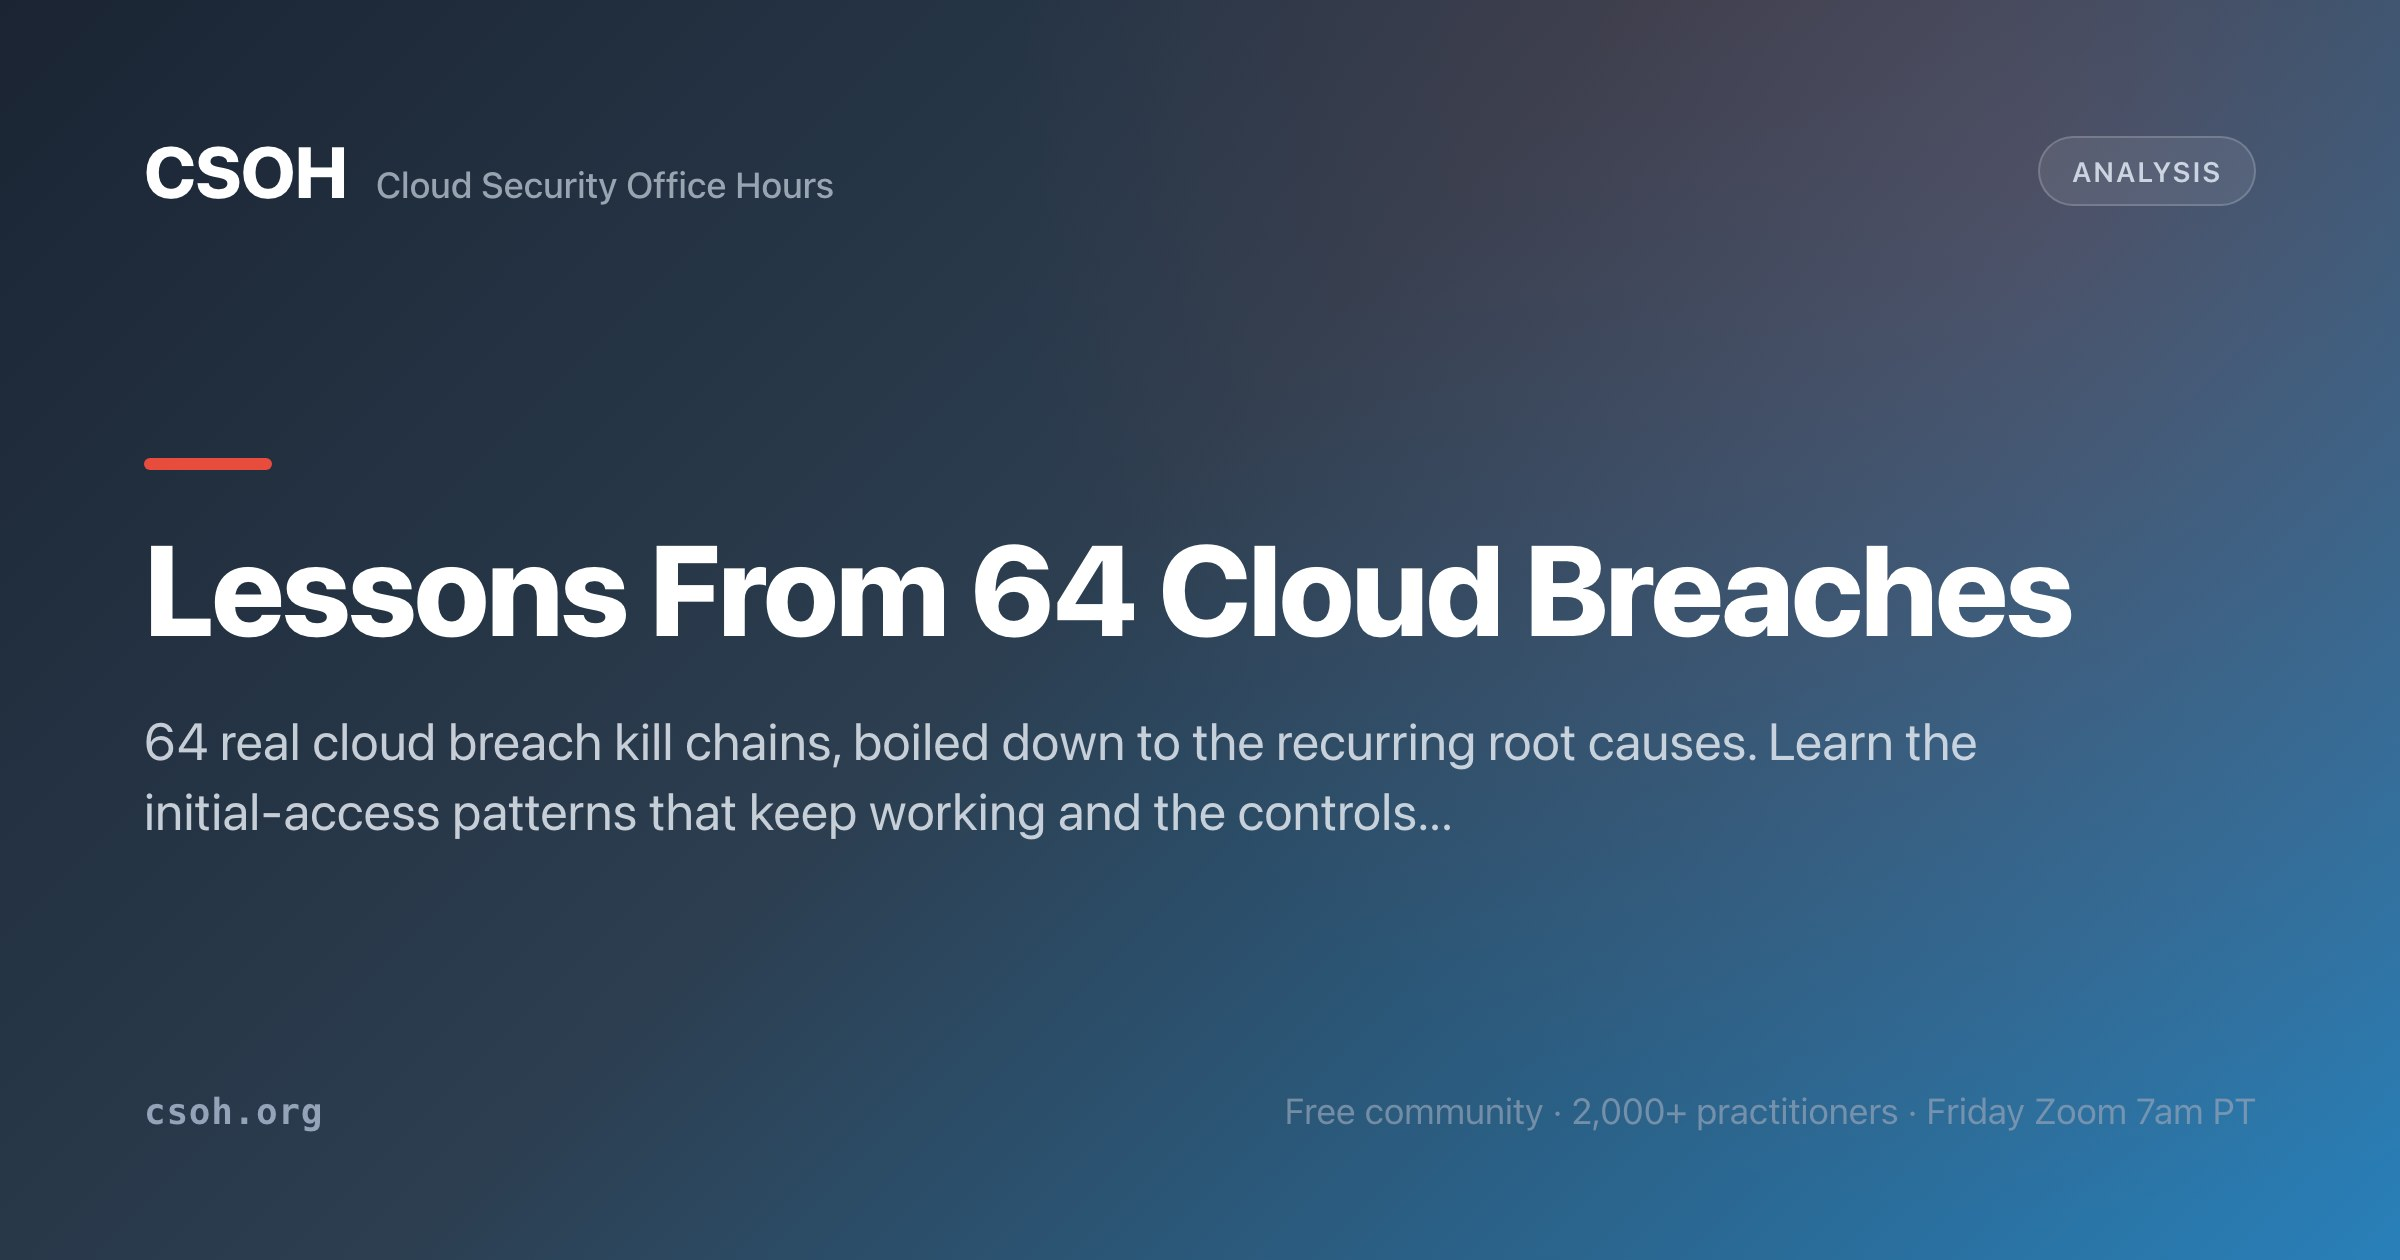
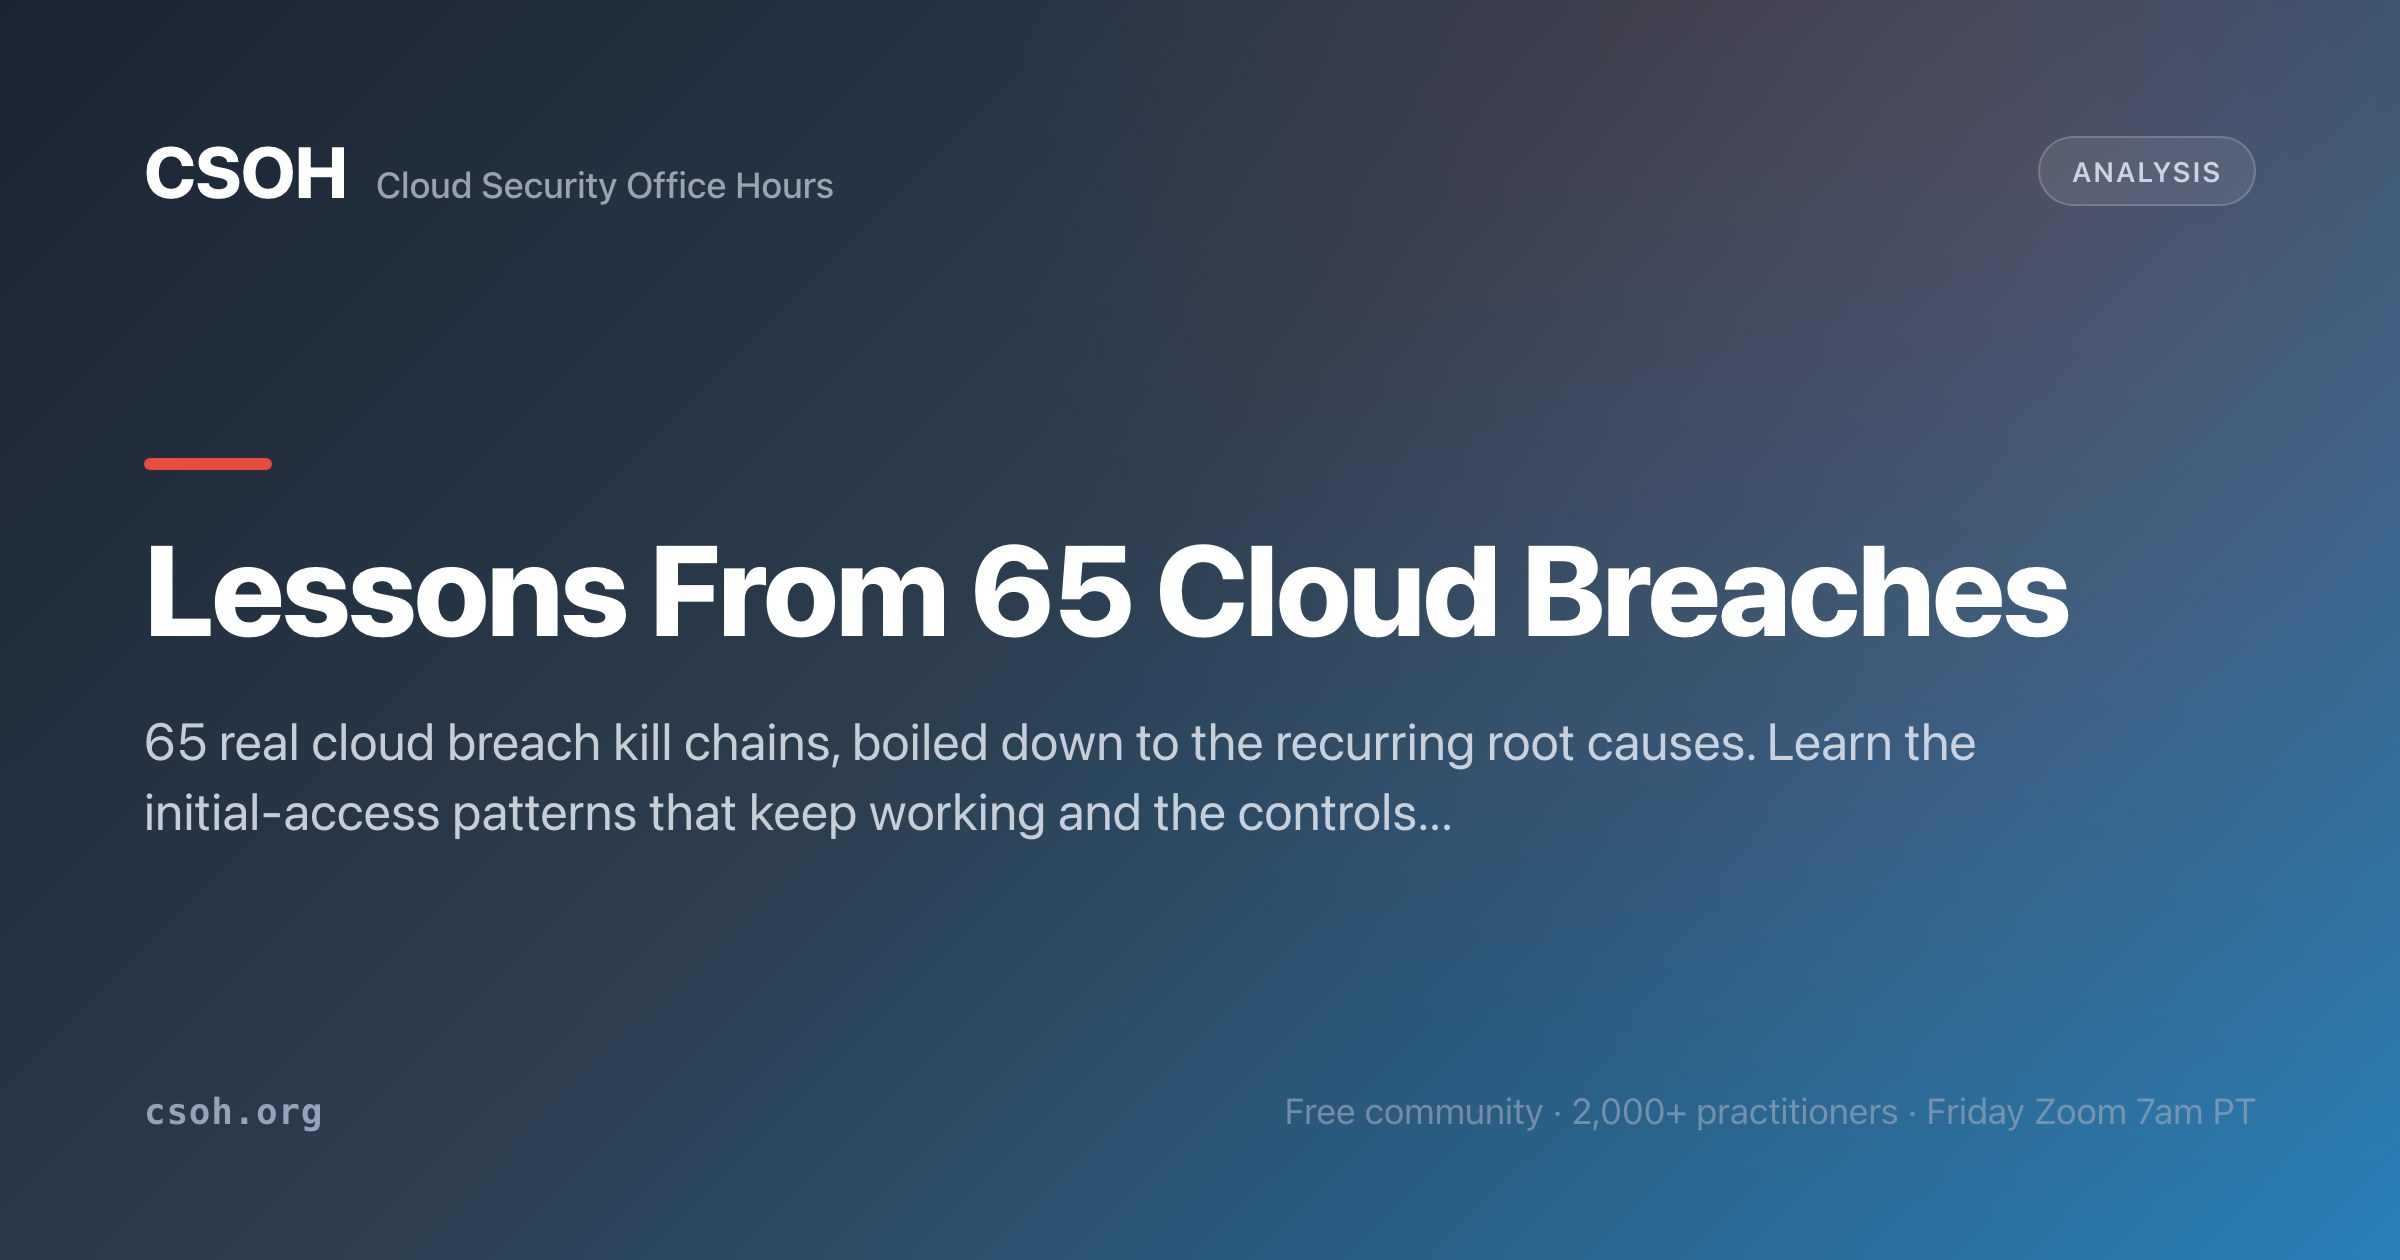
Preview cards: breach-lessons card follows the 65th kill chain
The Cloudflare Thanksgiving chain landed on main while the preview-card
fix was waiting, taking the breach count to 65. sync_counts.py's new
rule moved the card text from 64 to 65, which is the drift it was added
to catch; the image is re-rendered to match.

diff --git a/tools/generate_og_images.py b/tools/generate_og_images.py
@@ -383,8 +383,8 @@ PAGES = [
      "Strict CSP, SRI on every asset, HSTS and Cross-Origin isolation, keyless OIDC deploys, a Trivy-scanned pipeline - and how to verify each claim yourself.",
      "Security"),
     ("breach-lessons.html",
-     "Lessons From 64 Cloud Breaches",
-     "64 real cloud breach kill chains, boiled down to the recurring root causes. Learn the initial-access patterns that keep working and the controls...",
+     "Lessons From 65 Cloud Breaches",
+     "65 real cloud breach kill chains, boiled down to the recurring root causes. Learn the initial-access patterns that keep working and the controls...",
      "Analysis"),
     ("cloud-breach-year-in-review.html",
      "Cloud Breach Year in Review",
